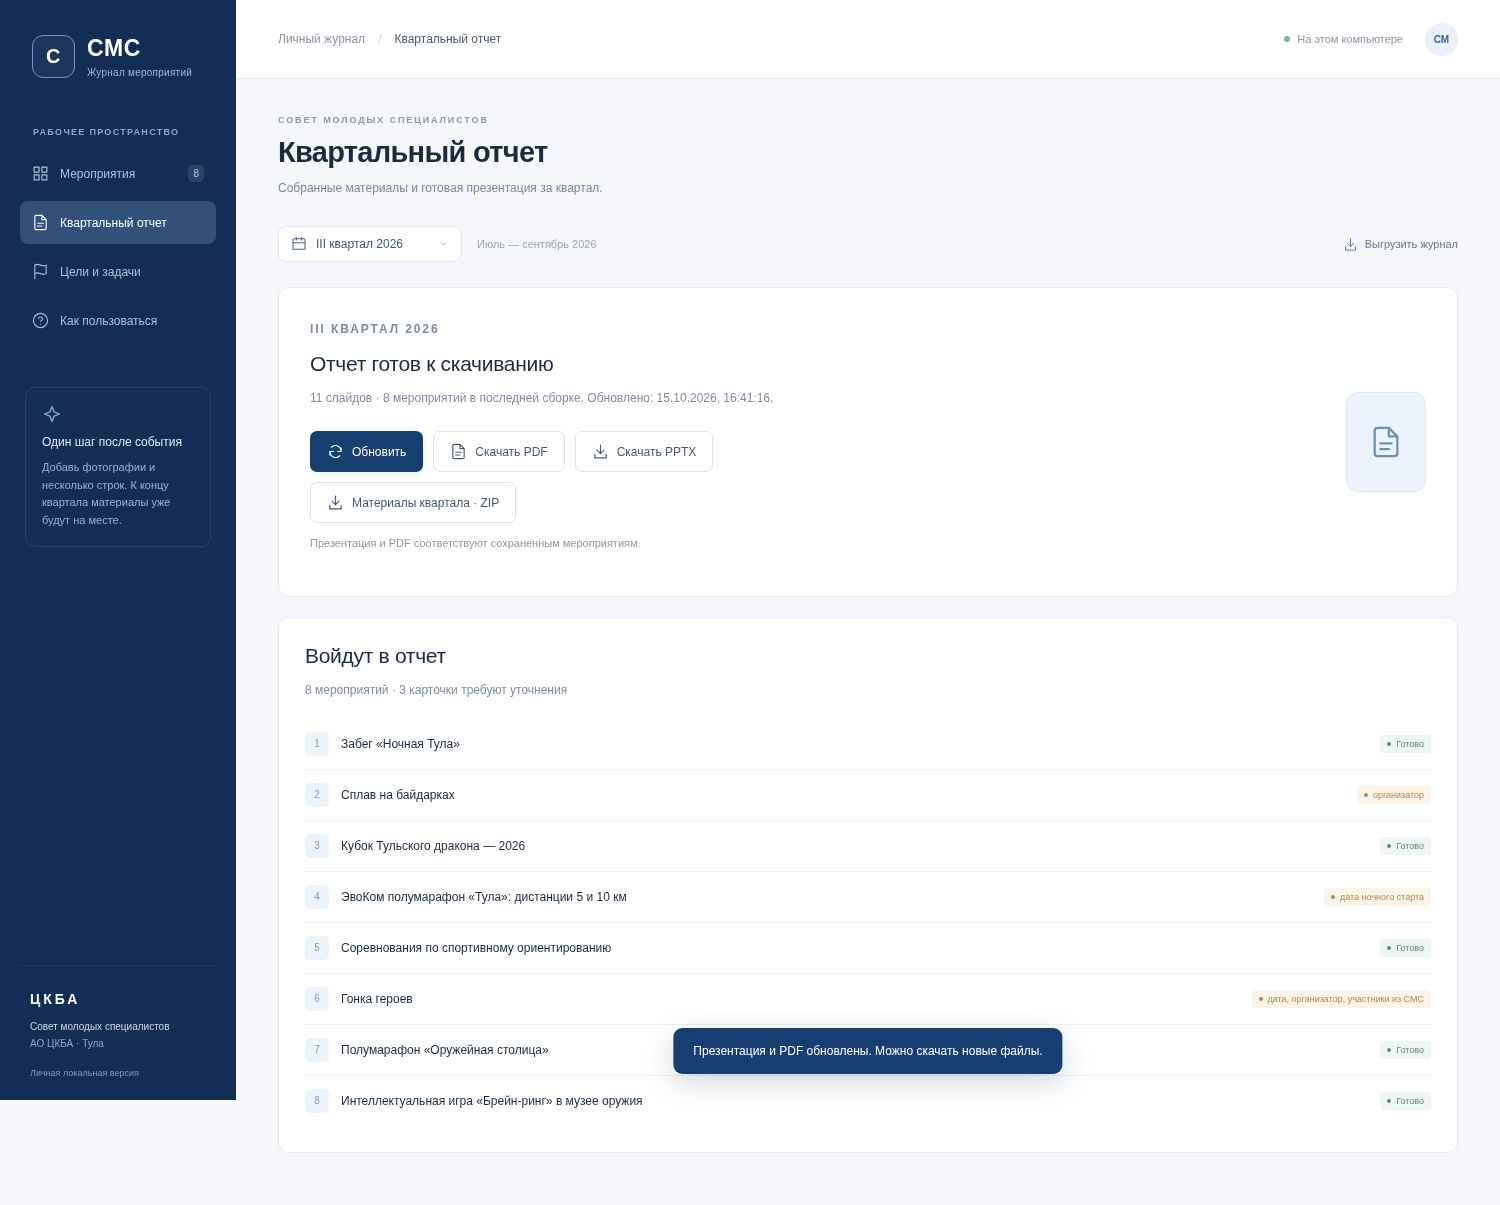
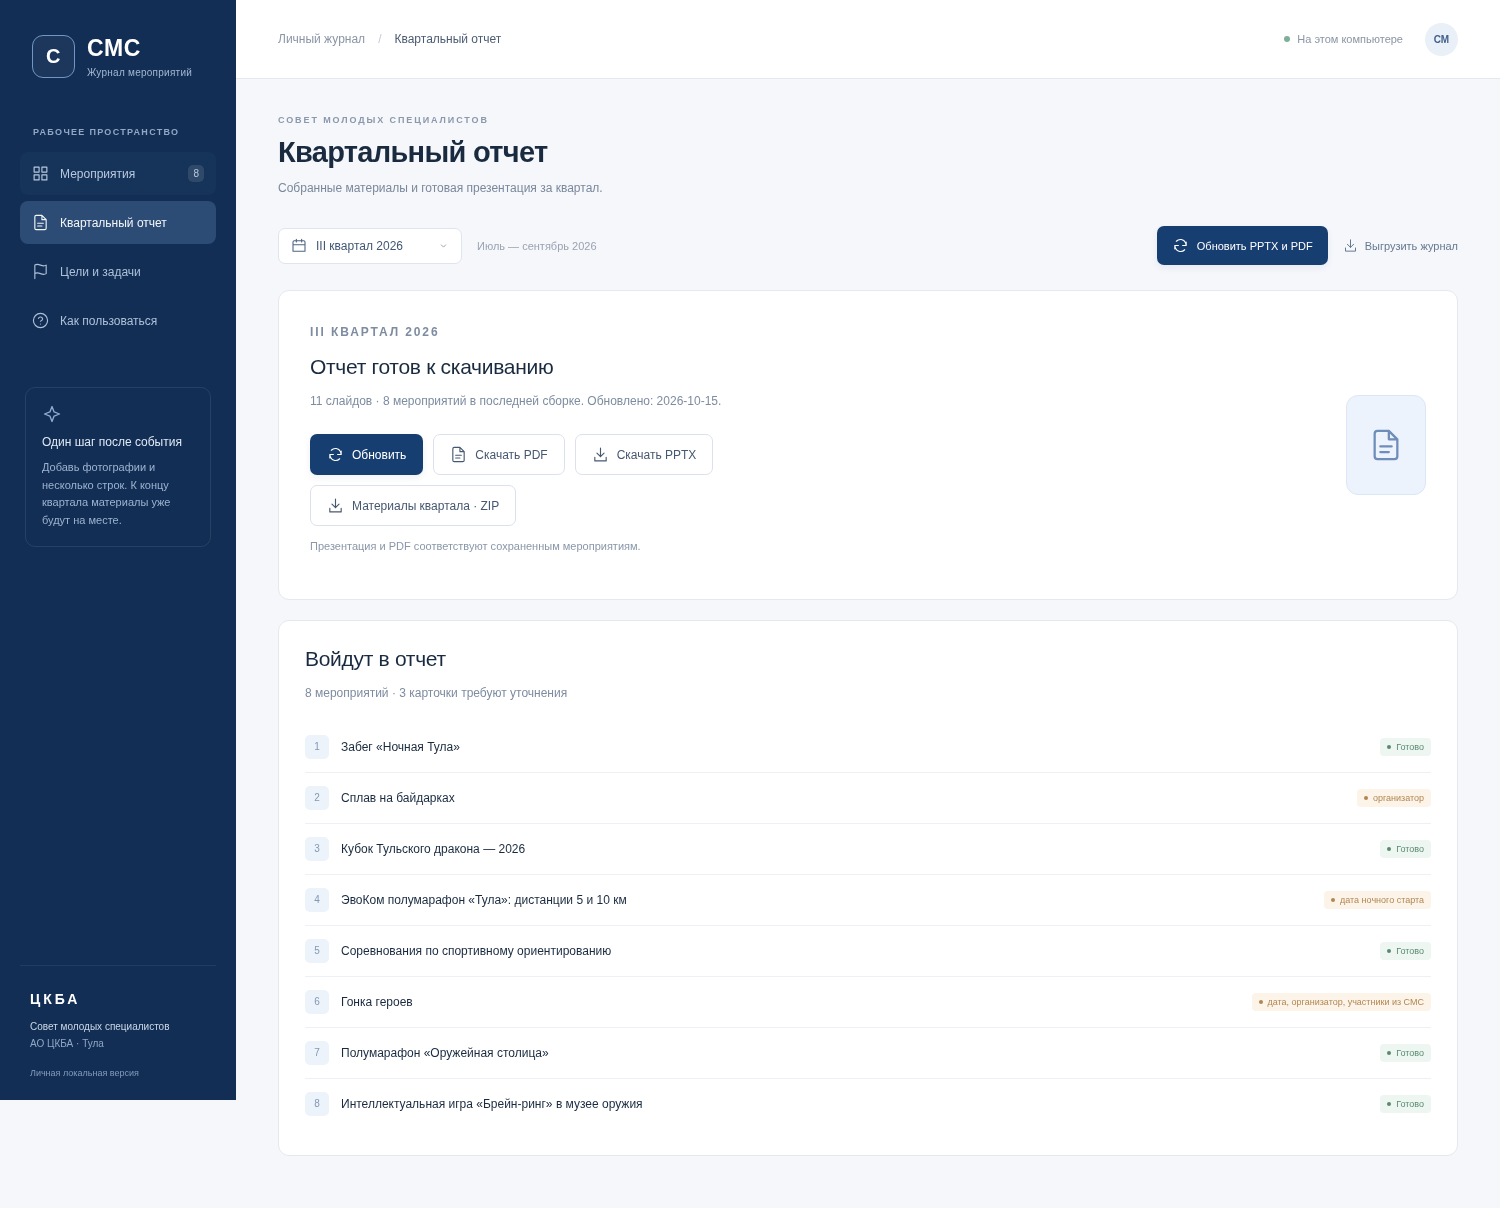
Показать кнопку обновления наверху и устранить кэш старого интерфейса

diff --git a/webapp/static/index.html b/webapp/static/index.html
@@ -6,8 +6,8 @@
   <meta name="theme-color" content="#173e71">
   <title>СМС · Журнал мероприятий ЦКБА</title>
   <meta name="description" content="Личный журнал мероприятий Совета молодых специалистов АО ЦКБА: фотографии, участники и квартальные отчеты.">
-  <link rel="stylesheet" href="/style.css">
-  <script src="/app.js" defer></script>
+  <link rel="stylesheet" href="/style.css?v=20261015-2">
+  <script src="/app.js?v=20261015-2" defer></script>
 </head>
 <body>
   <div class="shell">
@@ -31,7 +31,7 @@
       </header>
       <main id="main" tabindex="-1">
         <div class="page-heading"><div><p class="eyebrow">СОВЕТ МОЛОДЫХ СПЕЦИАЛИСТОВ</p><h1 id="page-title">Мероприятия совета</h1><p id="page-subtitle">Все события, фотографии и важные детали — в одном месте.</p></div><button class="button primary" id="add-event"><span data-icon="plus"></span>Добавить мероприятие</button></div>
-        <div class="quarter-bar"><label class="quarter-select"><span data-icon="calendar"></span><select id="quarter-select" aria-label="Отчетный квартал"><option>Загрузка…</option></select><span data-icon="chevron"></span></label><span class="period-label" id="period-label"></span><button class="text-button" id="export-button"><span data-icon="download"></span>Выгрузить журнал</button></div>
+        <div class="quarter-bar"><label class="quarter-select"><span data-icon="calendar"></span><select id="quarter-select" aria-label="Отчетный квартал"><option>Загрузка…</option></select><span data-icon="chevron"></span></label><span class="period-label" id="period-label"></span><div class="quarter-actions"><button class="button primary" id="update-report" data-report-update disabled><span data-icon="refresh"></span>Обновить PPTX и PDF</button><button class="text-button" id="export-button"><span data-icon="download"></span>Выгрузить журнал</button></div></div>
         <div id="load-error" class="banner error" role="alert" hidden></div>
         <div id="report-update-prompt" class="banner info report-update-prompt" role="status" hidden></div>
         <section id="events-view" class="view">

diff --git a/webapp/static/style.css b/webapp/static/style.css
@@ -7,3 +7,4 @@
 @media(max-width:440px){.event-grid{grid-template-columns:1fr}.card-image{height:205px}.card-body{padding:18px}.card-body h2{min-height:0;font-size:16px}.card-description{font-size:11px}.card-counts{font-size:10px;gap:20px}.status{font-size:9px}.open-card{font-size:10px}.card-bottom{padding-top:1px}.page-heading p:last-child{font-size:10px}.quarter-select{min-width:165px}.tabs{gap:11px}.photo-list{grid-template-columns:1fr}.photo-item img{height:170px}.dialog-footer .danger{font-size:0}.dialog-footer .danger svg{width:18px;height:18px}.stat-value small{margin-left:5px}.breadcrumb{font-size:10px}}
 @media(prefers-reduced-motion:reduce){*{scroll-behavior:auto!important;transition:none!important}}
 .report-update-prompt{display:flex;align-items:center;justify-content:space-between;gap:20px}.report-update-prompt p{margin:5px 0 0;font-size:12px;line-height:1.6}.report-update-prompt .button{flex-shrink:0}.build-progress{display:flex;align-items:center;gap:10px;color:var(--blue);font-size:12px;line-height:1.7}.build-progress svg{width:19px;height:19px;flex-shrink:0;animation:report-spin 2s linear infinite}.button[disabled]{opacity:.65;cursor:wait}@keyframes report-spin{to{transform:rotate(360deg)}}@media(max-width:760px){.report-update-prompt{align-items:flex-start;flex-direction:column;gap:12px}.build-progress{align-items:flex-start}}@media(prefers-reduced-motion:reduce){.build-progress svg{animation:none}}
+.quarter-actions{display:flex;align-items:center;gap:15px;margin-left:auto}.quarter-actions .button{font-size:11px;padding:10px 14px}.quarter-actions .text-button{font-size:11px}@media(max-width:1050px){.quarter-bar{flex-wrap:wrap}.quarter-actions{flex-wrap:wrap}}@media(max-width:760px){.quarter-actions{width:100%;margin-left:0;justify-content:space-between;gap:10px}.quarter-actions .button{font-size:10px}.quarter-actions .text-button{font-size:10px}}

diff --git a/webapp/static/app.js b/webapp/static/app.js
@@ -95,8 +95,15 @@ function reportUpdateButton(report) {
 }
 function renderReportPrompt() {
   const report = state.meta.reports.find(item => item.quarter === state.quarter);
-  const prompt = $('#report-update-prompt');
+  const update = $('#update-report');
   const running = report?.job?.state === 'running';
+  if (update) {
+    update.disabled = !report || running;
+    update.innerHTML = `${icon('refresh')}${running ? 'Обновляем…' : 'Обновить PPTX и PDF'}`;
+    update.title = report ? 'Пересобрать презентацию и PDF по сохраненным мероприятиям' : 'Для этого квартала сначала нужно подготовить шаблон отчета';
+    update.setAttribute('aria-busy',String(running));
+  }
+  const prompt = $('#report-update-prompt');
   prompt.hidden = state.view === 'report' || (!report?.changed && !running);
   prompt.innerHTML = `<div><strong>${running ? 'Обновляем презентацию и PDF' : 'Обновить презентацию и PDF?'}</strong><p>${running ? esc(report.job.message) : 'Мероприятия изменились после сборки отчета. Сохраненные правки готовы к переносу в оба файла.'}</p></div>${reportUpdateButton(report)}`;
 }

diff --git a/webapp/server.py b/webapp/server.py
@@ -88,6 +88,22 @@ class Journal:
                         if row['dirty'] and doc['quarter'] == quarter:
                             baselines[quarter][doc['id']] = 'not-yet-built'
                 self.setting(conn, 'report_baselines', baselines)
+            self.relocate_files(conn)
+
+    def relocate_files(self, conn):
+        # A downloaded update may live in a different folder. Keep copied .data
+        # backups usable after the previous checkout has been removed.
+        for row in conn.execute('SELECT id,path FROM files').fetchall():
+            old = Path(row['path'])
+            uploaded = self.directory / 'uploads' / (row['id'] + old.suffix)
+            target = uploaded if uploaded.is_file() else None
+            if target is None and 'presentations' in old.parts:
+                relative = old.parts[old.parts.index('presentations'):]
+                original = ROOT.joinpath(*relative).resolve()
+                if original.is_relative_to(ROOT) and original.is_file():
+                    target = original
+            if target is not None and target != old:
+                conn.execute('UPDATE files SET path=? WHERE id=?', (str(target), row['id']))
 
     @staticmethod
     def setting(conn, key, value):
@@ -545,12 +561,12 @@ class Handler(BaseHTTPRequestHandler):
         self.end_headers()
         self.wfile.write(data)
 
-    def file(self,path,kind=None,download=False):
+    def file(self,path,kind=None,download=False,cache=True):
         self.send_response(200)
         self.send_header('Content-Type',kind or mimetypes.guess_type(path.name)[0] or 'application/octet-stream')
         self.send_header('Content-Length',str(path.stat().st_size))
         self.send_header('X-Content-Type-Options','nosniff')
-        self.send_header('Cache-Control','private, max-age=3600' if not download else 'no-store')
+        self.send_header('Cache-Control','private, max-age=3600' if cache and not download else 'no-store')
         if download:
             self.send_header('Content-Disposition',f'attachment; filename="report{path.suffix}"')
         self.end_headers()
@@ -640,7 +656,7 @@ class Handler(BaseHTTPRequestHandler):
             static=static.resolve()
             if not static.is_relative_to(STATIC) or not static.is_file():
                 raise KeyError('Страница не найдена.')
-            return self.file(static)
+            return self.file(static,cache=False)
         except (BrokenPipeError,ConnectionResetError):
             pass
         except Exception as exc:

diff --git a/webapp/test_server.py b/webapp/test_server.py
@@ -2,6 +2,7 @@ import base64
 from email.parser import Parser
 from io import BytesIO
 import json
+import shutil
 from pathlib import Path
 import tempfile
 import threading
@@ -148,6 +149,24 @@ class JournalIntegrationTests(unittest.TestCase):
         self.assertEqual(status,200)
         self.assertIn('text/html',headers['Content-Type'])
         self.assertIn('Журнал мероприятий'.encode(),body)
+        self.assertEqual(headers['Cache-Control'],'no-store')
+        for path in ['/app.js','/style.css','/app.js?v=20261015-2']:
+            self.assertEqual(self.request(path)[1]['Cache-Control'],'no-store')
+
+    def test_data_copy_remaps_photos_to_new_folder(self):
+        event=self.create()
[1 lines of base64/hex data omitted]
+        uploaded=self.journal.upload(event['id'],png,'team.png')
+        with tempfile.TemporaryDirectory() as destination:
+            copied=Path(destination)/'data'
+            shutil.copytree(self.journal.directory,copied)
+            moved=Journal(copied)
+            fid=uploaded['photos'][0]['id']
+            with moved.db() as conn:
+                path=Path(conn.execute('SELECT path FROM files WHERE id=?',(fid,)).fetchone()[0])
+            self.assertTrue(path.is_relative_to(copied))
+            self.assertEqual(path.read_bytes(),png)
+            self.assertEqual(moved.event(event['id'])['name'],event['name'])
 
     def finish_build(self):
         self.assertTrue(self.journal.report_lock.acquire(timeout=10), 'report worker did not finish')

diff --git a/webapp/README.md b/webapp/README.md
@@ -25,7 +25,7 @@ webapp/.venv/bin/python webapp/server.py --open
 ## Обновить презентацию и PDF
 
 1. Отредактируйте мероприятие, добавьте фотографии или измените состав отчета и нажмите «Сохранить».
-2. Сайт предложит **«Обновить презентацию и PDF?»**. Нажмите **«Обновить»** в предложении или в разделе «Квартальный отчет».
+2. Сайт предложит **«Обновить презентацию и PDF?»**. Нажмите **«Обновить»** в предложении или в разделе «Квартальный отчет». Кнопка **«Обновить PPTX и PDF»** также всегда видна наверху страницы, рядом с выбором квартала.
 3. Дождитесь окончания сборки. Скачайте новые PPTX и PDF в разделе отчета.
 
 ![Кнопка обновления и скачивание новой презентации и PDF](./docs/report.png)
@@ -48,6 +48,19 @@ webapp/.venv/bin/python webapp/server.py --open
 - Защита от потери правок при редактировании в разных вкладках.
 
 ## Данные и резервные копии
+
+### Если после обновления нет кнопки
+
+Если в разделе отчета написано «Отчет уже собран» и «Передайте агенту новую выгрузку», открыт прежний интерфейс. Сначала попробуйте **Ctrl + Shift + R**. Если надписи остались, обновите файлы программы:
+
+1. Остановите старый сервер: Ctrl+C в его окне, затем закройте это окно.
+2. Скопируйте прежнюю папку `webapp/.data` в надежное место — в ней ваши правки и загруженные фотографии.
+3. Скачайте и распакуйте свежий архив репозитория.
+4. Поместите сохраненную `.data` в `webapp/` новой версии **до первого запуска**.
+5. Запустите `START-WINDOWS.bat` из новой папки и откройте http://127.0.0.1:8765.
+6. Нажмите Ctrl + Shift + R. Наверху появится кнопка «Обновить PPTX и PDF».
+
+Приложение исправляет пути к фотографиям при переносе `.data` в новую папку. HTML, JavaScript и стили теперь выдаются без кэширования.
 
 Изменения хранятся в `webapp/.data/`: база `journal.sqlite3`, новые оригиналы в `uploads/`, уменьшенные копии в `thumbnails/`, версии отчетов в `reports/`. Папка исключена из Git. Для полной резервной копии остановите сервер и сохраните всю `.data/`. Архив квартала содержит сведения и используемые фото.
 
